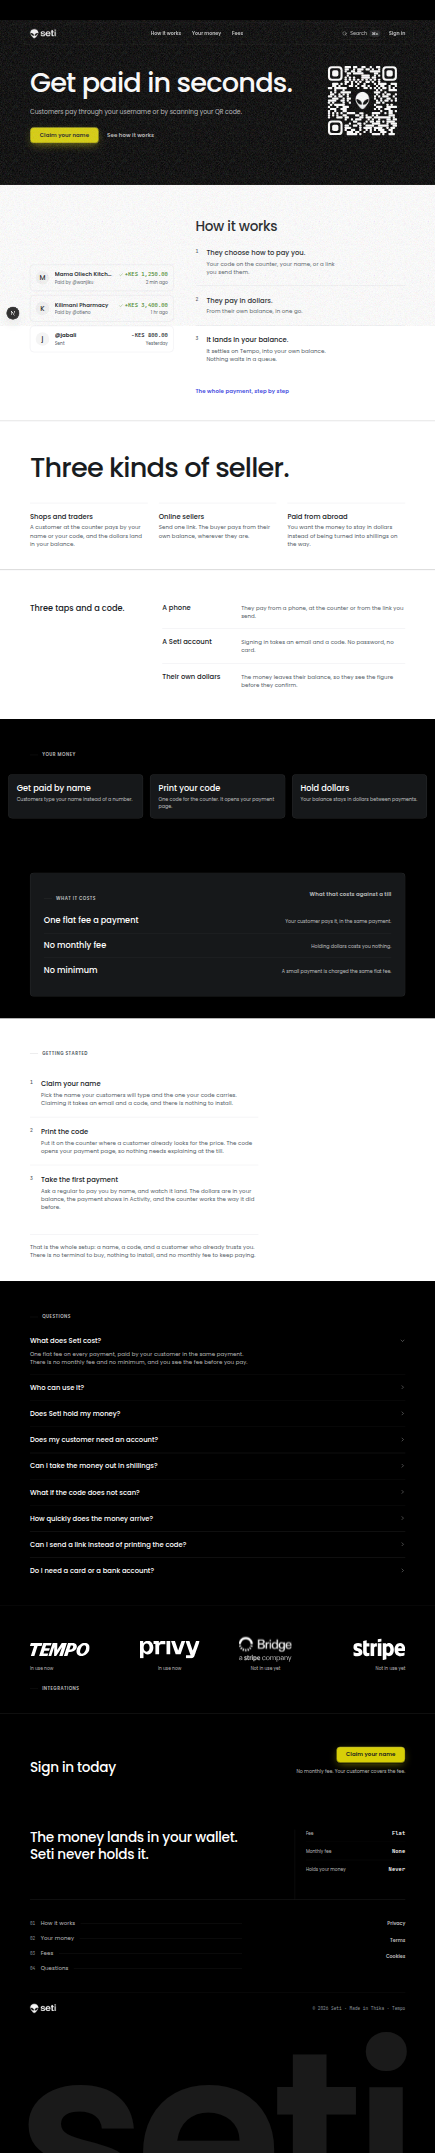
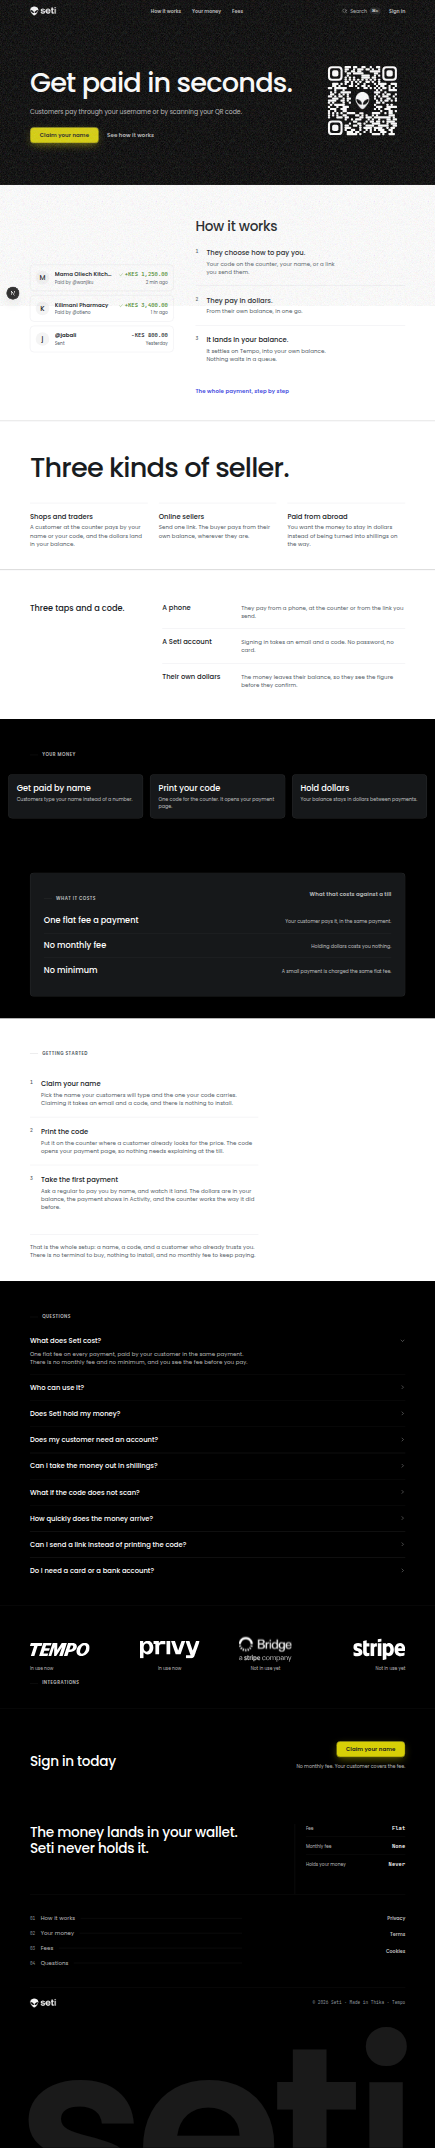
fix(landing): the caption sits with the marks, not between the bands
At 48px below the captions "Integrations" read as the next band's header rather
than as the label for the four marks above it, which is the whole point of moving
it (#540). 24px groups it with the row it names.

The after screenshot is re-captured on this commit, so the picture in the pull
request is the branch as pushed.

diff --git a/web/app/components/landing/PartnersSection.tsx b/web/app/components/landing/PartnersSection.tsx
@@ -140,7 +140,7 @@ export function PartnersSection() {
             looked at instead of announcing something it has not seen. It stays the same
             `SectionEyebrow`, so this band still carries no heading element, which is what
             its outline was always allowed to be. */}
-        <div className="mt-10">
+        <div className="mt-6">
           <SectionEyebrow label={PARTNERS_EYEBROW} onDark />
         </div>
       </div>
